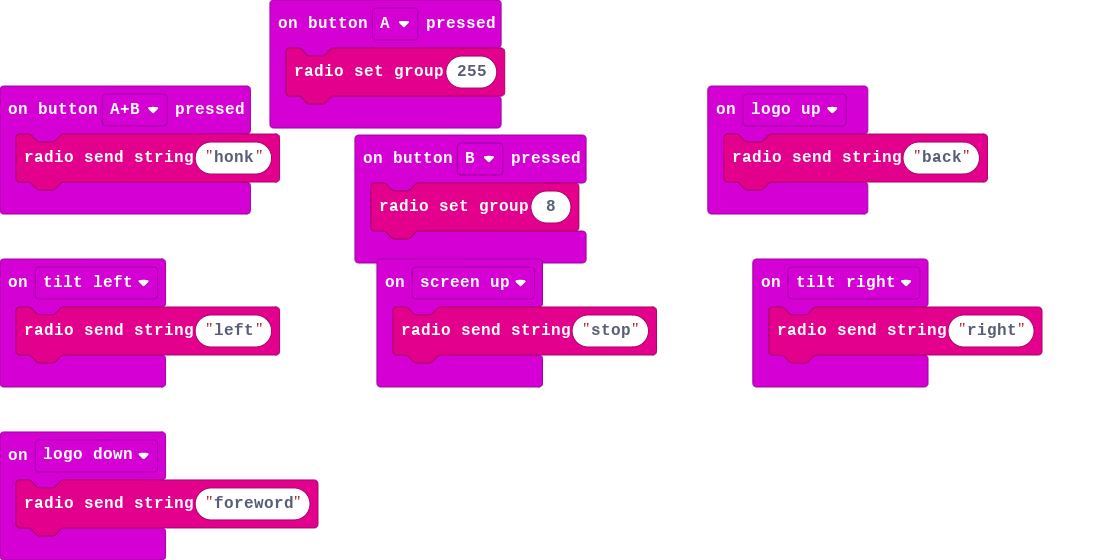
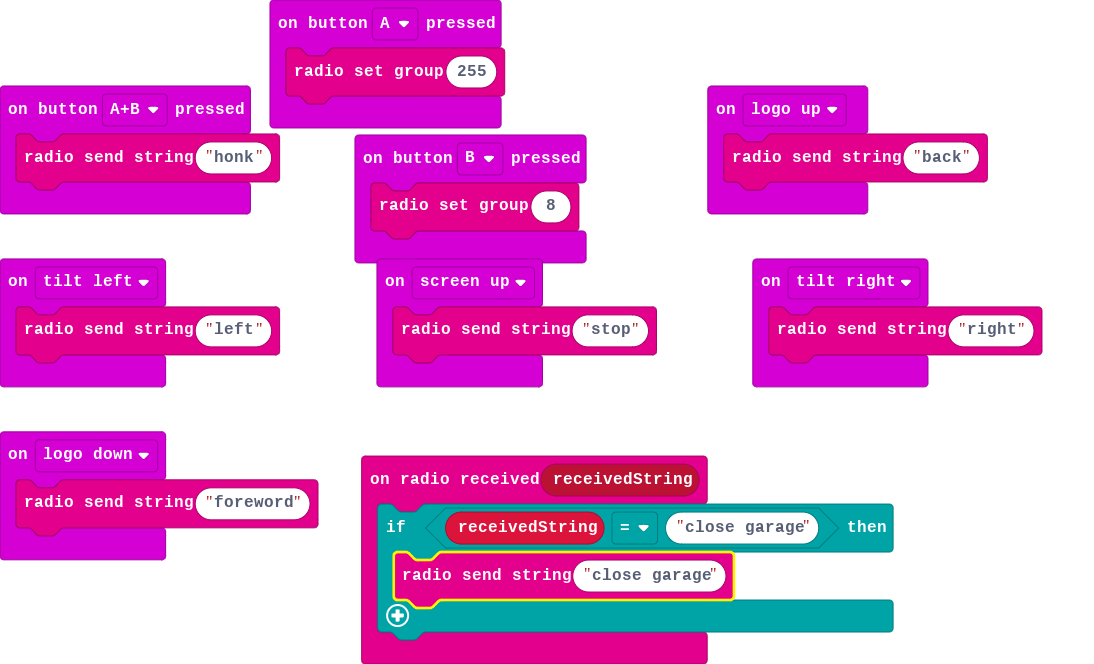
Update main.blocks, main.ts

diff --git a/main.ts b/main.ts
@@ -13,6 +13,11 @@ input.onGesture(Gesture.ScreenUp, function () {
 input.onButtonPressed(Button.AB, function () {
     radio.sendString("honk")
 })
+radio.onReceivedString(function (receivedString) {
+    if (receivedString == "close garage") {
+        radio.sendString("close garage")
+    }
+})
 input.onButtonPressed(Button.B, function () {
     radio.setGroup(8)
 })
